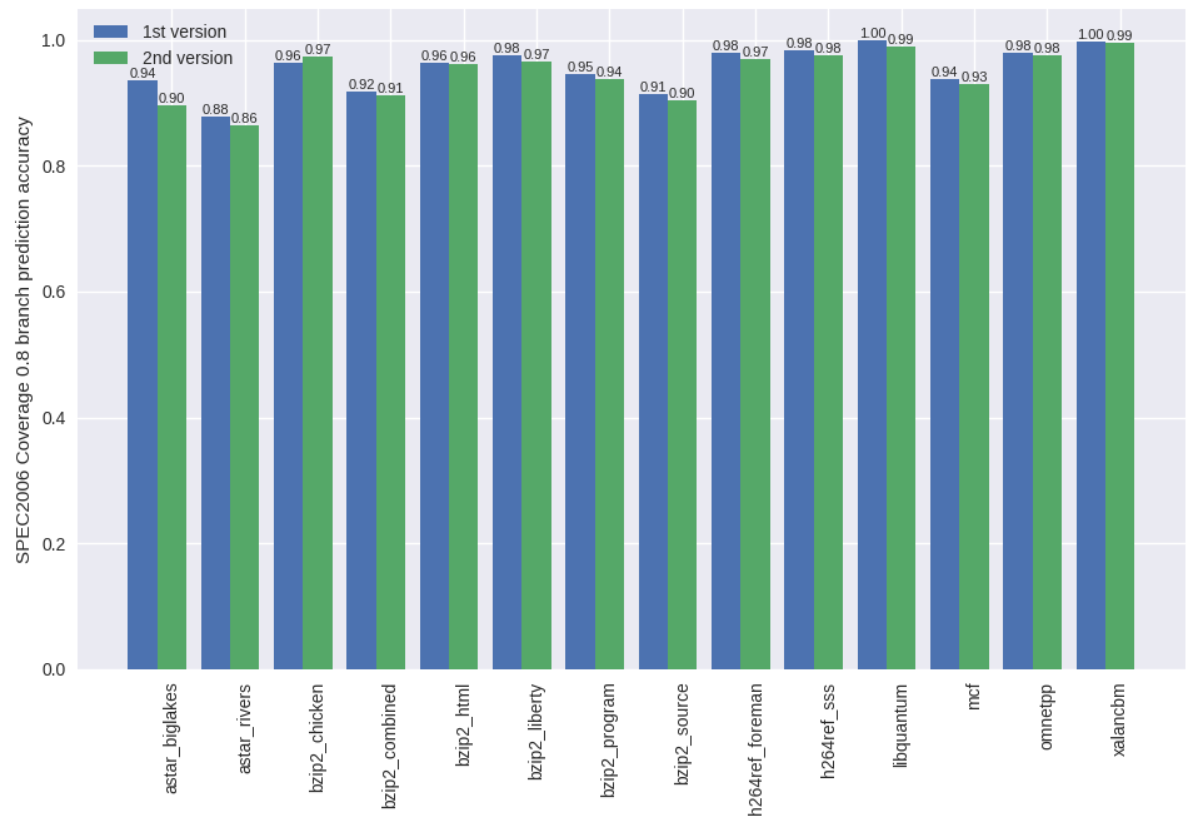
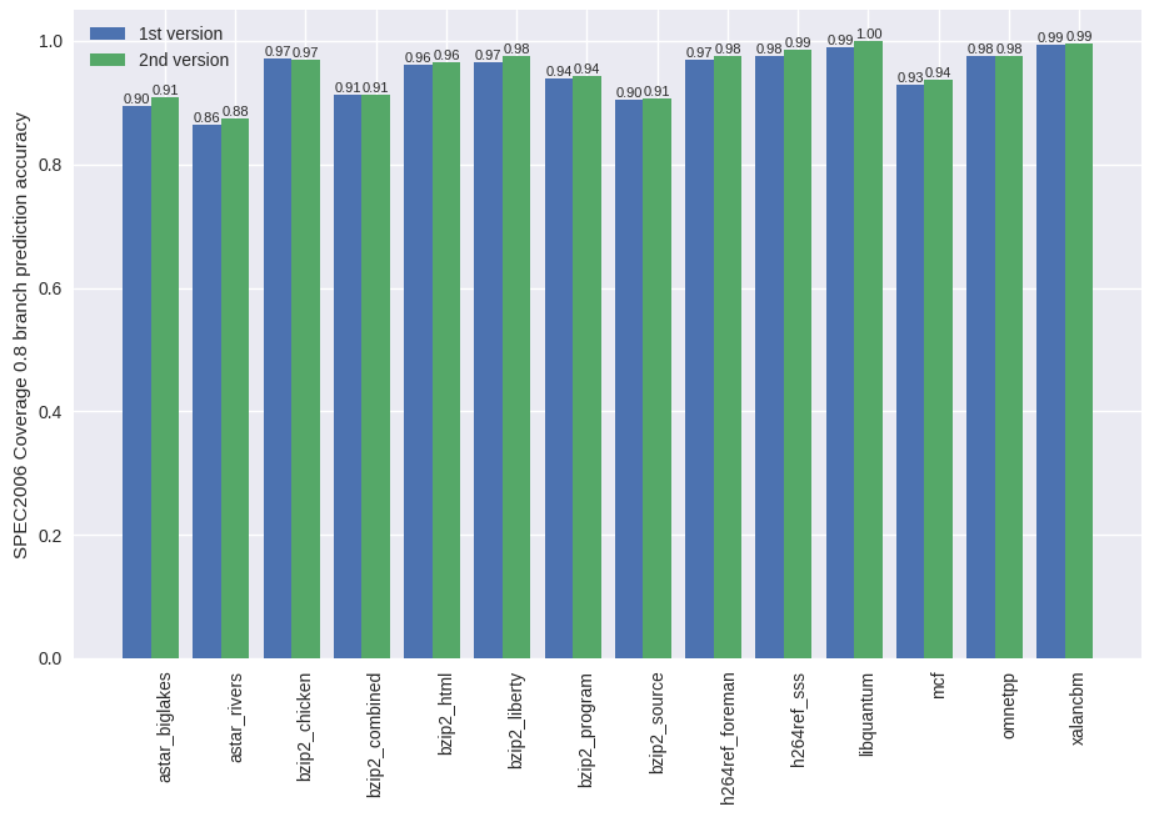
Add some data

diff --git a/data/chapter6.tex b/data/chapter6.tex
@@ -58,7 +58,7 @@ Coremark程序比较小，运行一次需要的时间很短，但是为了能够
 
 由于checkpoint在恢复时只能够恢复内存和寄存器，像FTB这类SRAM无法完全恢复，因此在真正的测试片段运行前，需要运行测试片段前的一小部分程序，为整个流水线做warmup，经过一段时间的训练后再开始运行正式的测试片段。通过这种技术，可以在几周内就得到一次完整的SPEC测试数据，极大提升了迭代效率。
 
-由于运行一次完整的SPEC 2006测试，即使使用了checkpoint技术，也需要几周的时间。因此为了更快的得到测试的性能结果，本文的性能评估一节中，只选取了SPEC 2006的部分与有代表性的测试点进行测试。
+由于运行一次完整的SPEC 2006测试，即使使用了checkpoint技术，也需要几周的时间。因此为了更快的得到测试的性能结果，本文的性能评估一节中，只选取了SPEC 2006的部分有代表性的测试点进行测试。
 
 通过在代码中添加各种各样的性能计数器。在测试程序执行完毕后，可以通过查看性能计数器的结果，来判断分支预测部分的工作情况，并通过跟香山第一版的架构进行比对，来验证第二版设计的性能提升。
 
@@ -69,7 +69,7 @@ Coremark程序比较小，运行一次需要的时间很短，但是为了能够
 \begin{enumerate}
 	\item IPC (Instructions Per Cycle)。即每周期有多少条指令提交，用总的指令数除以程序运行的总周期数得到。这是评估整个处理器架构性能的关键指标，IPC越高，说明单位时间内处理器能够执行的指令越多，性能越好，且IPC以周期数为衡量指标，可以很好的排除频率的影响。
 	\item 分支预测准确率。即用预测正确的分支数量除以总分支数量，即可得到分支预测准确率，相反的，用预测错误的分支数量除以总分支数量，得到的就是分支误预测率，分支预测准确率加分支误预测率等于1。分支预测准确率可以比较直观的看出分支预测的性能。在现代处理器的分支预测设计下，基本上预测准确率能够达到90\%以上。
-	% \item MPKI (Misprediction Per KiloInstructions)。代表在整个测试程序中每1000条指令中误预测指令的数量。也是衡量分支预测性能的一个重要指标。与分支预测准确率不同的是，MPKI除了考虑了分支指令以外，将所有的指令都纳入了考虑的范围内。通常情况下希望MPKI越低越好，但是导致MPKI低的原因不只有分支预测准确率高，一个分支指令占总指令比较低的程序也有可能达到很低的MPKI，即使它的预测准确率较低。使用MPKI评估分支预测性能的原因是现在分支预测在很多情况下的准确率都已经非常高，一些应用甚至准确率能够达到99\%，这种情况下再对比分支预测准确率的差距就不是很明显了。此外使用MPKI也能够更直观的看出误预测分支指令在整个程序中的占比，更容易评估误预测带来的penalty。
+	\item MPKI (Misprediction Per KiloInstructions)。代表在整个测试程序中每1000条指令中误预测指令的数量。也是衡量分支预测性能的一个重要指标。与分支预测准确率不同的是，MPKI除了考虑了分支指令以外，将所有的指令都纳入了考虑的范围内。通常情况下希望MPKI越低越好，但是导致MPKI低的原因不只有分支预测准确率高，一个分支指令占总指令比较低的程序也有可能达到很低的MPKI，即使它的预测准确率较低。使用MPKI评估分支预测性能的原因是现在分支预测在很多情况下的准确率都已经非常高，一些应用甚至准确率能够达到99\%，这种情况下再对比分支预测准确率的差距就不是很明显了。此外使用MPKI也能够更直观的看出误预测分支指令在整个程序中的占比，更容易评估误预测带来的penalty。
 	\item FTB命中率。这是用于评估FTB的一个主要指标，在第二版的前端设计中，主要靠FTB来识别并给出分支指令的相关信息，如果FTB没有命中，分支预测就无从谈起，因此FTB的命中率也是影响分支预测准确率的一个重大因素。
 	% \item 前端气泡数量？
 	\item 频率。通过计算IPC，能够得知处理器整体架构每周期有多少条指令提交，除了提升IPC能够提高处理器的性能之外，提升频率也是一个重要的途径。频率越高，代表处理器每周期的时间越短，相同时间内包含更多周期，因此在相同IPC的情况下，频率越高，单位时间内处理器能够执行的指令数量也越多，总体性能越高。
@@ -79,7 +79,7 @@ Coremark程序比较小，运行一次需要的时间很短，但是为了能够
 
 本节将根据上一节提出的评估指标，来对SPEC 2006的部分测试成果进行分析。主要用于对比的是香山处理器第一版和第二版，因为香山第二版主要是在第一版的基础上进行迭代优化，希望能够进一步的提升性能。
 
-图\ref{fig:figure61}是运行占80\%权重的SPEC 2006部分测试程序片段后，第一版和第二版的IPC数据对比，可以看出第二版相比于第一版的性能，大部分的程序IPC都有了提升，总体的IPC平均提升了17.84\%，当然IPC提升的原因有很多，第二版架构相比于第一版也不只是重构分支预测，解耦了前端。并不能够直观的反应分支预测部分的提升，但是由于解耦前端消除的气泡带来的性能提升依然占其中一部分比例。由于两个版本架构解耦前后的前端差距过大，因此没有办法很好的控制变量，精准的测试出解耦带来的性能提升。
+图\ref{fig:figure61}是运行占80\%权重的SPEC 2006部分测试程序片段后，第一版和第二版的IPC数据对比，可以看出第二版相比于第一版的性能，大部分的程序IPC都有了提升，总体的IPC平均提升了30.96\%，当然IPC提升的原因有很多，第二版架构相比于第一版也不只是重构分支预测，解耦了前端。并不能够直观的反应分支预测部分的提升，但是由于解耦前端消除的气泡带来的性能提升依然占其中一部分比例。由于两个版本架构解耦前后的前端差距过大，因此没有办法很好的控制变量，精准的测试出解耦带来的性能提升。
 
 % 9.32 -18.4 17.6 67.05 28.57 58.57 51.19
 
@@ -92,7 +92,16 @@ Coremark程序比较小，运行一次需要的时间很短，但是为了能够
 	\label{fig:figure61}
 \end{figure}
 
-图\ref{fig:figure62}是运行占80\%权重的SPEC 2006部分测试程序片段后，第一版和第二版的分支预测准确率数据对比。可以看出相比于第一版设计，第二版的分支预测准确率降低了0.9\%。其中在第二版中使用了更加准确的单条指令的分支历史，并且增加了FTB使用的SRAM的容量，会对分支预测准确率有一定的正面影响，但是为了优化逻辑电路的延时，提高最终的频率，因此分支预测依然在很多方面做了性能上的妥协，例如减少了TAGE预测表的数量，使得在第二版中的分支预测准确率略低于第一版。
+图\ref{fig:figure64}和图\ref{fig:figure62}分别是运行占80\%权重的SPEC 2006部分测试程序片段后，第一版和第二版的分支预测准确率和MPKI对比。可以看出相比于第一版设计，第二版设计的平均MPKI降低了0.6\%，平均MPKI降低了1.13。其中在第二版中使用了更加准确的单条指令的分支历史，并且增加了FTB使用的SRAM的容量，会对分支预测准确率有一定的正面影响，但是为了优化逻辑电路的延时，提高最终的频率，因此分支预测依然在很多方面做了性能上的妥协，例如减少了TAGE预测表的数量，最终各种因素综合得出了最终的结果。
+
+\begin{figure}[htb]
+	\centering
+	\setlength\tabcolsep{3pt}  % 同一行中的图片间隔
+	\vspace{5pt} % 图片上部的空白，如果太小的话，图片顶部会与正文内容十分接近
+	\includegraphics[width=1\textwidth]{accuracy.png}
+	\caption{SPEC2006 coverage 0.8 部分检查点分支预测准确率对比}
+	\label{fig:figure64}
+\end{figure}
 
 % 13.05 -39.61 40.68 86.36 20.68 -1.6 
 
@@ -101,8 +110,8 @@ Coremark程序比较小，运行一次需要的时间很短，但是为了能够
 	\centering
 	\setlength\tabcolsep{3pt}  % 同一行中的图片间隔
 	\vspace{5pt} % 图片上部的空白，如果太小的话，图片顶部会与正文内容十分接近
-	\includegraphics[width=1\textwidth]{accuracy.png}
-	\caption{SPEC2006 coverage 0.8 部分检查点分支预测准确率对比}
+	\includegraphics[width=1\textwidth]{mpki.png}
+	\caption{SPEC2006 coverage 0.8 部分检查点MPKI对比}
 	\label{fig:figure62}
 \end{figure}
 
@@ -153,4 +162,4 @@ Coremark程序比较小，运行一次需要的时间很短，但是为了能够
 
 \section{本章小结}
 
-本章主要介绍了整个项目在进行测试和性能评估时使用的工具和方法，并从多个角度分析了第二版架构相比于第一版架构带来的改变。这也是在频率和性能之间不断进行权衡比较的结果，相比于第一版架构，第二版架构最终的总体性能，以及能够达到的最终流片频率均有较大的提升。但相对的分支预测准确率并没有明显的变化。
+本章主要介绍了整个项目在进行测试和性能评估时使用的工具和方法，并从多个角度分析了第二版架构相比于第一版架构带来的改变。这也是在频率和性能之间不断进行权衡比较的结果，相比于第一版架构，第二版架构分支预测的性能有小幅的提升，而最终的总体性能，以及能够达到的最终流片频率均有较大的提升。

diff --git a/data/conclusion.tex b/data/conclusion.tex
@@ -6,7 +6,7 @@
 
 在高性能处理器的分支预测研究领域中，为了提高分支预测准确率，大量的学者提出了各种各样的算法和改进措施，也取得了很好的效果。但是大部分论文中的算法设计都是基于模拟器进行性能分析，并没有考虑到现实物理设计时的限制，而商业处理器的分支预测具体设计大部分细节都不会公开。
 
-而本文选用香山这一RISC-V开源高性能处理器作为平台，在其第一版架构的分支预测部件基础上进行了重构和改进，提出了一种新分支预测架构的设计实现，其中主要的两个改进就是实现FTB来限制分支预测宽度，已经将分支预测和取指单元的流水线解耦来减少前端流水线的气泡。此外一些分支预测器中也有许多优化逻辑电路延迟的改动。最终作为香山处理器第二版的分支预测组件设计，即将送往流片。相对于第一版来说，总体性能和频率都有一定的提升。在相同的14nm工艺下，使用Design Compiler进行评估，整体的频率能够从第一版的1.8GHz提升到2.0GHz，提升了11\%，且从SPEC 2006下的部分测试程序结果来看，整体IPC性能能够提升17.84\%。
+而本文选用香山这一RISC-V开源高性能处理器作为平台，在其第一版架构的分支预测部件基础上进行了重构和改进，提出了一种新分支预测架构的设计实现，其中主要的两个改进就是实现FTB来限制分支预测宽度，已经将分支预测和取指单元的流水线解耦来减少前端流水线的气泡。此外一些分支预测器中也有许多优化逻辑电路延迟的改动。最终作为香山处理器第二版的分支预测组件设计，即将送往流片。相对于第一版来说，总体性能和频率都有一定的提升。在相同的14nm工艺下，使用Design Compiler进行评估，整体的频率能够从第一版的1.8GHz提升到2.0GHz，提升了11\%，且从SPEC 2006下的部分测试程序结果来看，整体IPC性能能够提升30.96\%。
 
 \section{展望}
 
@@ -14,7 +14,7 @@
 
 \begin{enumerate}
     \item 在开发过程中，如何快速准确的对分支预测部件进行功能评估，一直是一个没有解决的问题，由于分支预测本身就是一个预测性质的功能，即使预测错误也只是会造成性能损失，不会出现功能上的错误，因此香山的差分测试框架难以找到分支预测实现上的bug。如何测试分支预测运行时各种功能是否正常，是一个非常值得深入研究的课题。
-    \item 在香山下一版的设计，以及未来的每次迭代中，对频率和性能的要求肯定是越来越高的，因此在第二版的基础上，需要考虑如何能够做到更高的频率，可能分支预测的整体框架还要大幅的改动。
+    \item 在香山下一版的设计，以及未来的每次迭代中，对频率和性能的要求肯定是越来越高的，因此在第二版的基础上，需要考虑如何能够做到更高的频率，如何做到更高的分支预测准确率，都是值得研究的课题。可能分支预测的整体框架还要大幅的改动。
     \item 在第一版的设计中，分支预测里实现了循环预测器，但是在第二版中移除了它，主要是因为第二版使用了非对齐的取指策略，同一条分支可能存在于不同的Fetch Block中，这样对于循环预测器的实现带来了一些问题，循环预测器无法准确的记录某条循环跳转指令的迭代次数。因此之后如何设计实现循环预测器，将其加入到分支预测中，也是一个未来的改进方向。
 \end{enumerate}
 

diff --git a/data/enabstract.tex b/data/enabstract.tex
@@ -10,7 +10,7 @@
 
     Evaluate overall architecture performance by performing behavioral-level simulations with Verilator, and using checkpointing techniques to run snippets of SPEC 2006, with performance counters for statistics and analysis. Compared with the first version. 
 
-    In summary, this paper studies the branch prediction architecture of RISC-V high-performance processors, as well as the specific problems in the physical implementation process, and proposes and completes a specific implementation of branch prediction. Finally, it is evaluated by behavioral simulation. The experimental results show that compared with the first version of the architecture, the frequency can be increased from 1.8Ghz to 2GHz under the 14nm process, and the IPC of some SPEC 2006 test programs is increased by an average of 17\%. 
+    In summary, this paper studies the branch prediction architecture of RISC-V high-performance processors, as well as the specific problems in the physical implementation process, and proposes and completes a specific implementation of branch prediction. Finally, it is evaluated by behavioral simulation. The experimental results show that compared with the first version of the architecture, the frequency can be increased from 1.8Ghz to 2GHz under the 14nm process, and the IPC of some SPEC 2006 test programs is increased by an average of 31\%. 
 
 }
 

diff --git a/data/cnabstract.tex b/data/cnabstract.tex
@@ -10,7 +10,7 @@
 
     通过使用 Verilator 进行行为级仿真，并使用 checkpoint 技术来运行 SPEC 2006 的片段来评估整体架构性能，通过性能计数器来统计相关数据并进行分析。
 
-    综上所述，本文研究了 RISC-V 高性能处理器的分支预测架构，以及物理实现过程中的具体问题，提出并完成了一种分支预测的具体实现。最终通过行为级仿真对其进行了评估，实验结果表明相对于第一版架构，在14nm的工艺下，频率能够从1.8Ghz提升到2GHz，跑部分SPEC 2006测试程序IPC平均提升17\%。
+    综上所述，本文研究了 RISC-V 高性能处理器的分支预测架构，以及物理实现过程中的具体问题，提出并完成了一种分支预测的具体实现。最终通过行为级仿真对其进行了评估，实验结果表明相对于第一版架构，在14nm的工艺下，频率能够从1.8Ghz提升到2GHz，跑部分SPEC 2006测试程序IPC平均提升31\%。
 
 }
 
